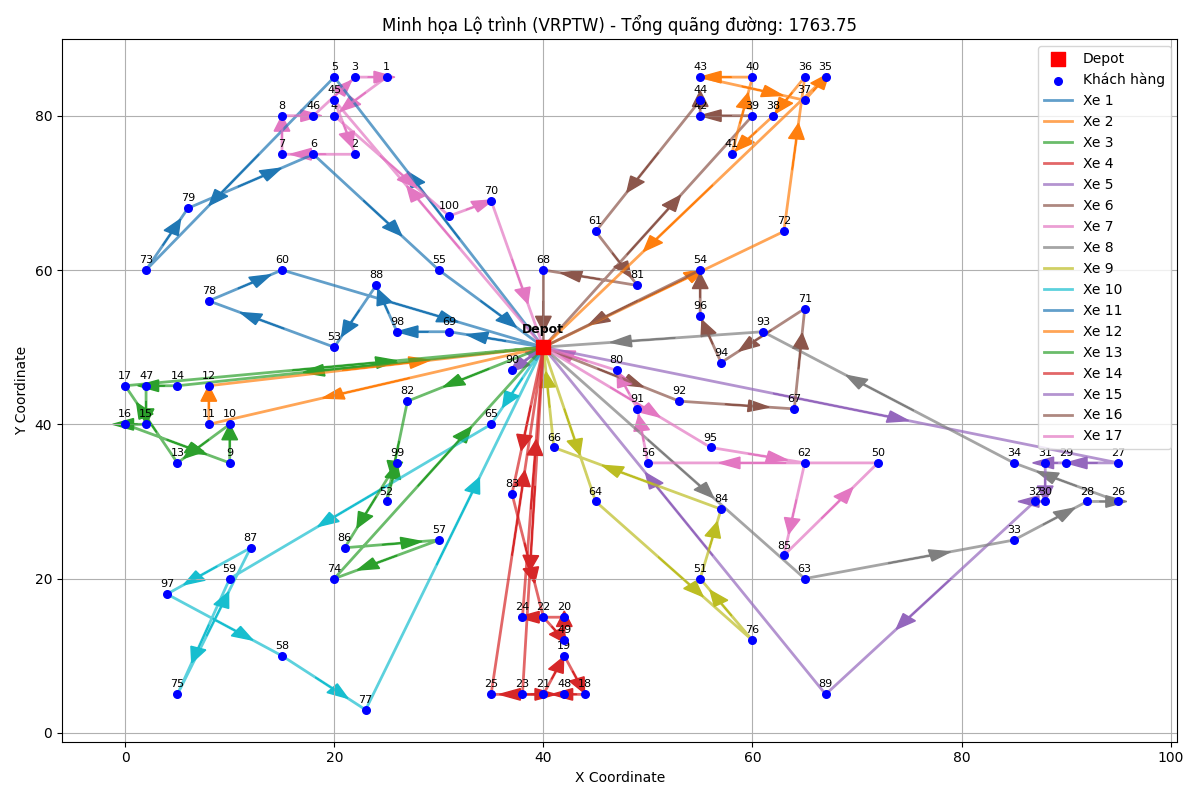
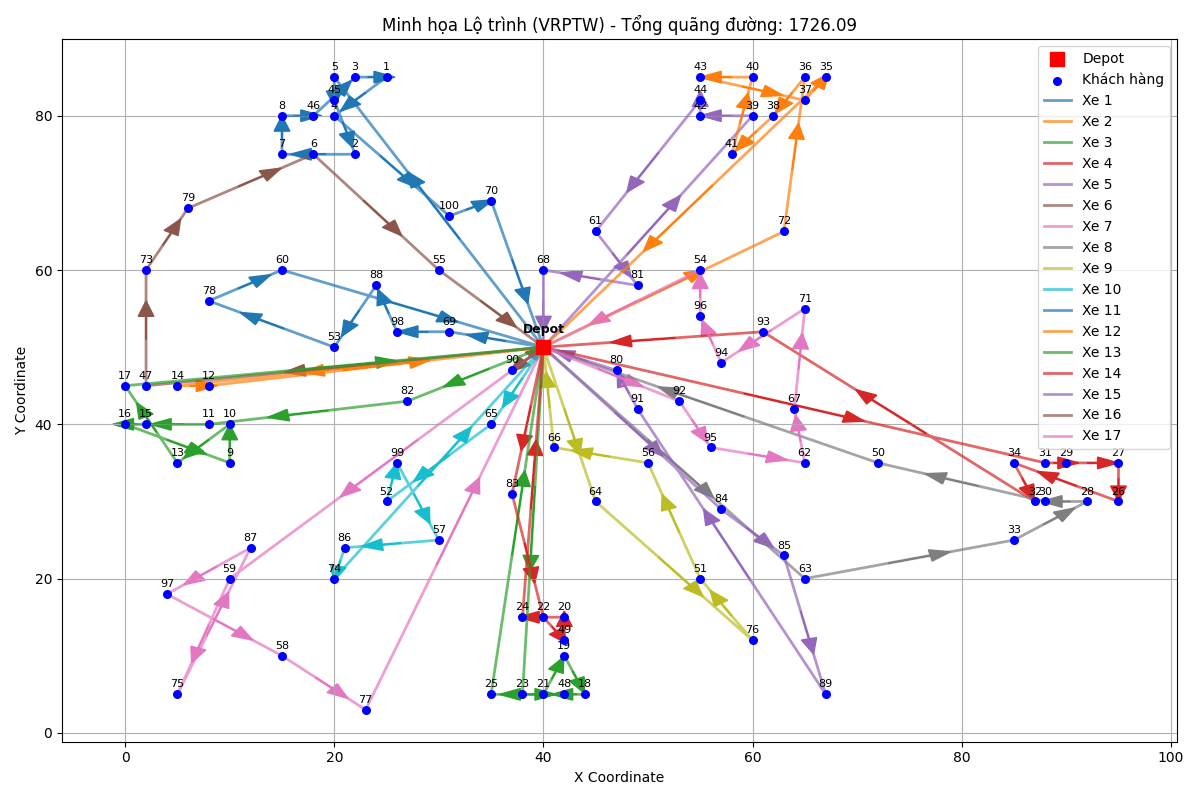
check check

diff --git a/solve_solomon_50_mip.py b/solve_solomon_50_mip.py
@@ -183,7 +183,7 @@ def plot_solution(data_rows, routes, total_dist=None, save_path=None):
 if __name__ == "__main__":
     # Cấu hình đường dẫn cho 50 khách hàng
     FOLDER = "solomon-50"
-    FILE_NAME = "C101.txt"
+    FILE_NAME = "RC201.txt"
     PATH = os.path.join(FOLDER, FILE_NAME)
     
     print(f"--- Đang giải {PATH} với 50 khách hàng ---")

diff --git a/solve_solomon_100_mip.py b/solve_solomon_100_mip.py
@@ -181,7 +181,7 @@ def plot_solution(data_rows, routes, total_dist=None, save_path=None):
 # --- CHƯƠNG TRÌNH CHÍNH ---
 if __name__ == "__main__":
     FOLDER = "solomon-100"
-    FILE_NAME = "RC101.txt"
+    FILE_NAME = "RC201.txt"
     PATH = os.path.join(FOLDER, FILE_NAME)
     
     print(f"--- Bắt đầu giải bài toán 100 khách hàng: {PATH} ---")

diff --git a/solve_solomon_25_mip.py b/solve_solomon_25_mip.py
@@ -180,7 +180,7 @@ def plot_solution(data_rows, routes, total_dist=None, save_path=None):
     plt.show()
 
 if __name__ == "__main__":
-    file_path = "solomon-25/C101.txt"
+    file_path = "solomon-25/RC201.txt"
     data, capacity = read_solomon(file_path, n_customers=25)
     if data:
         print(f"--- Đang giải {file_path} ---")
